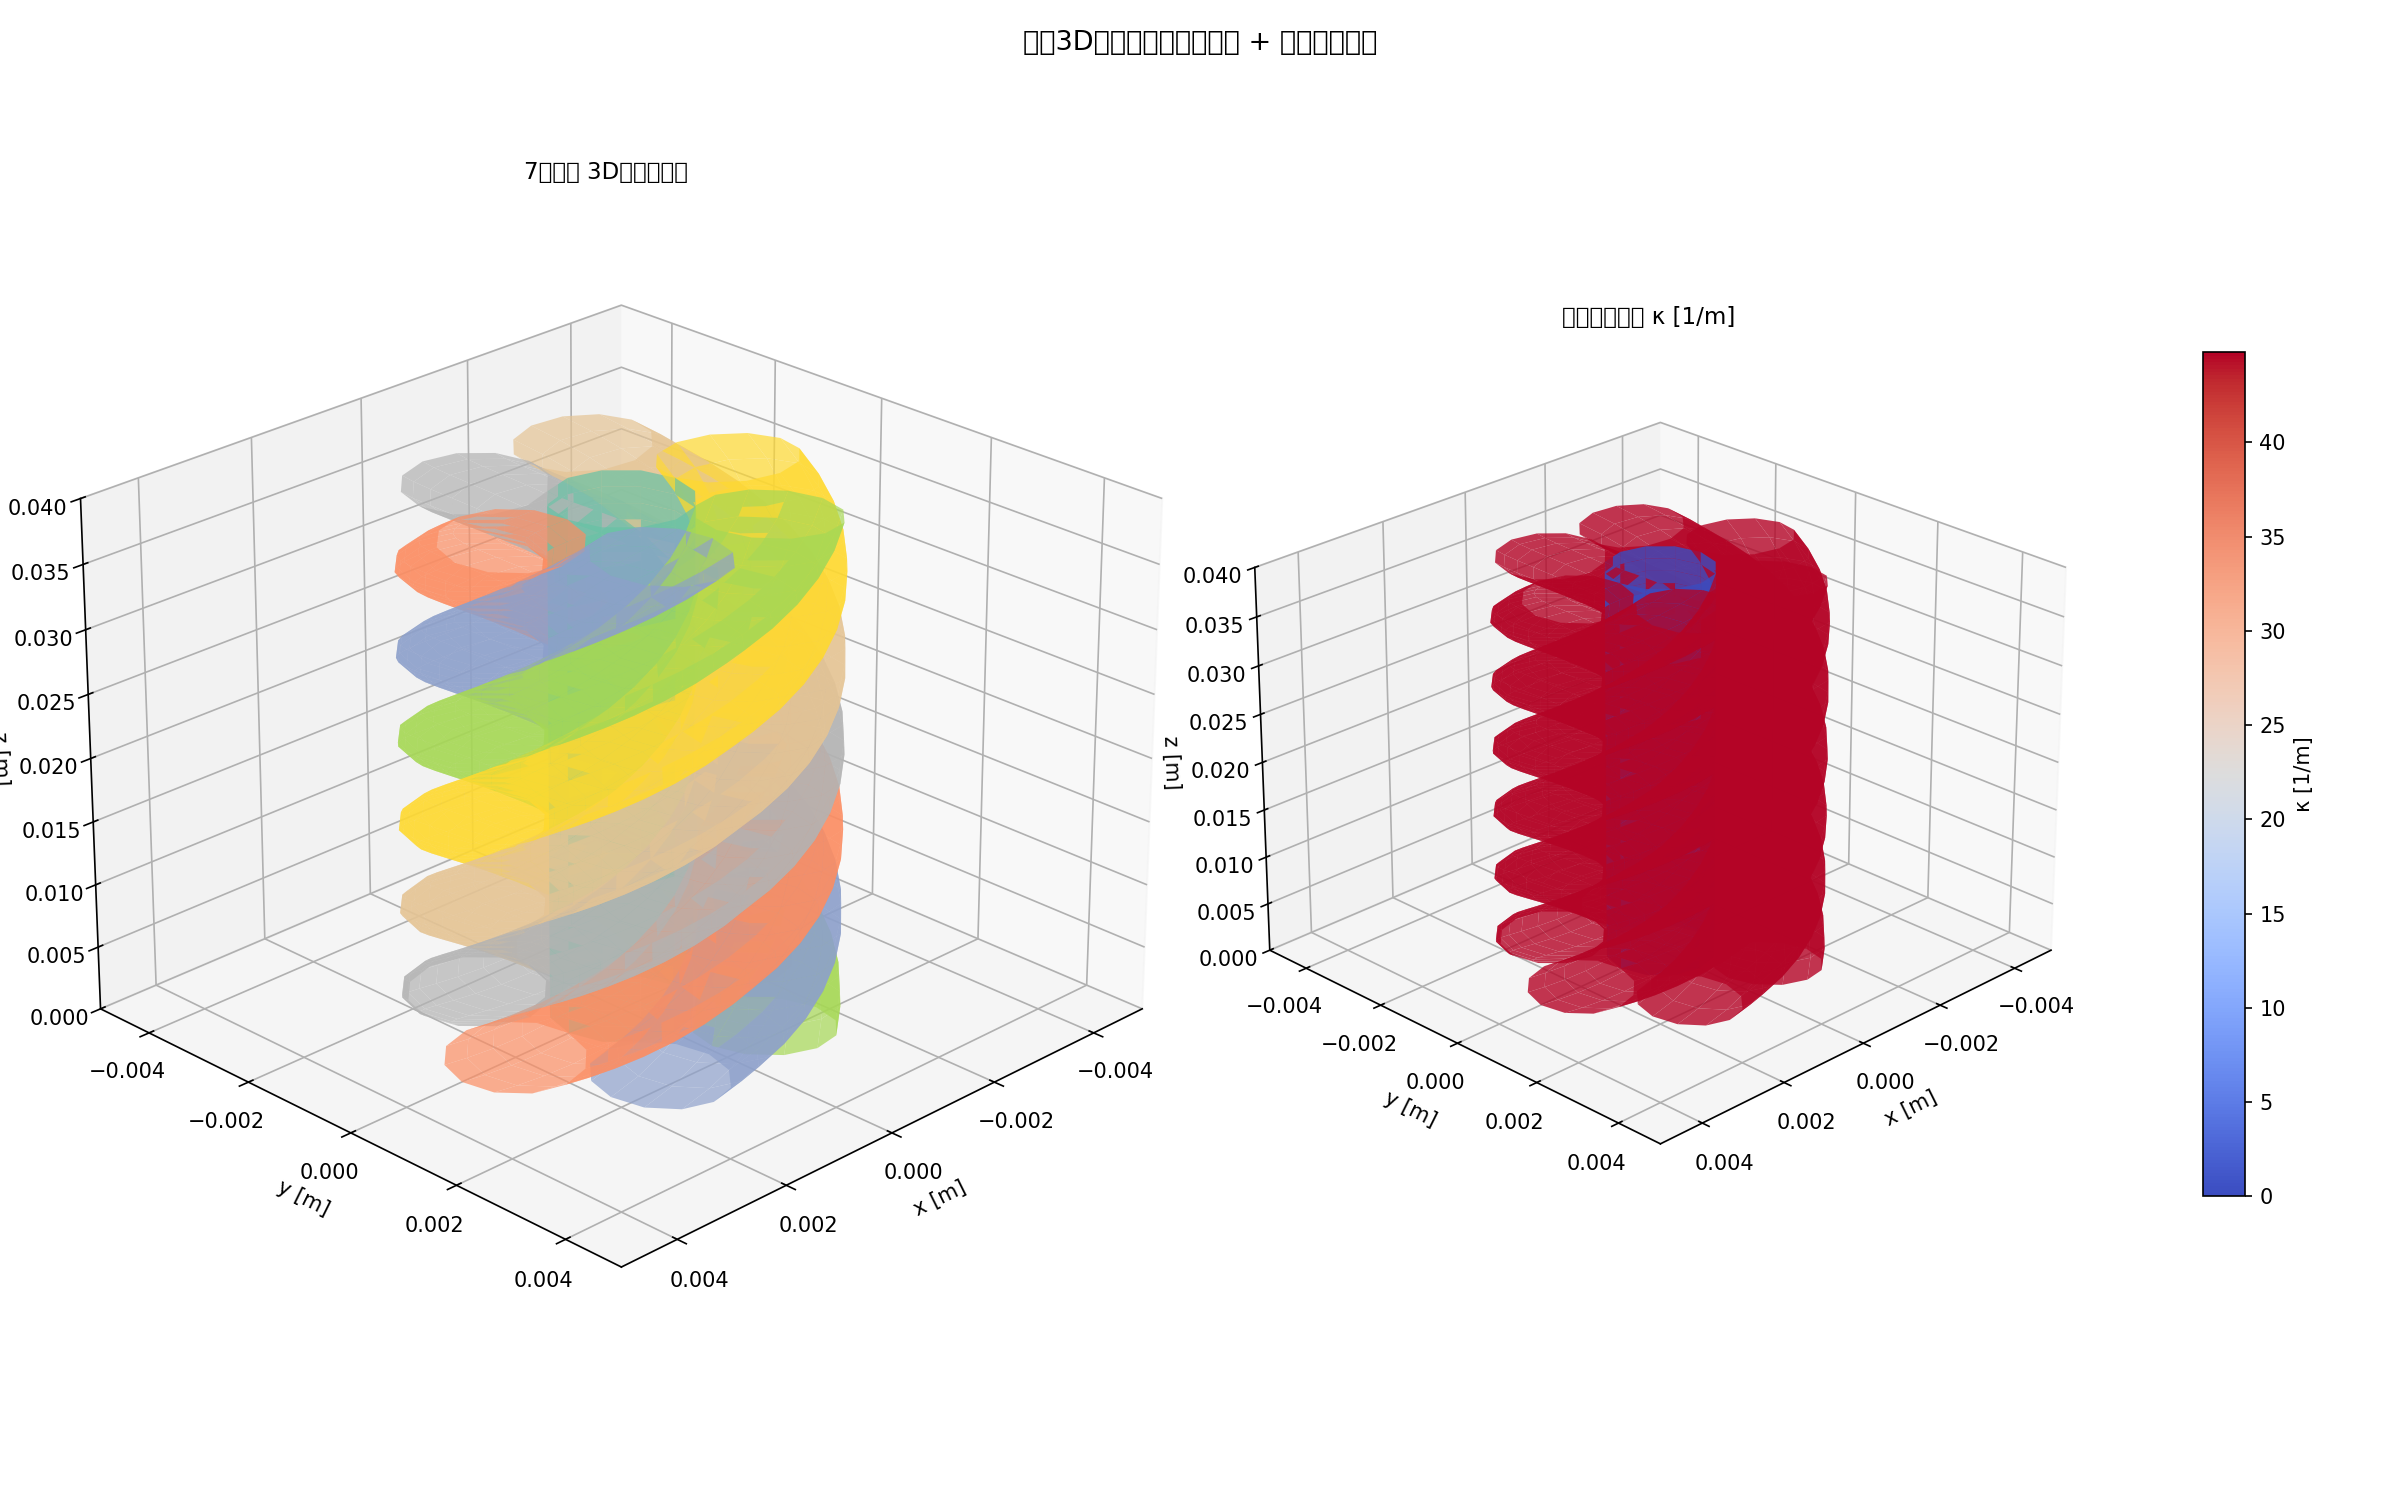
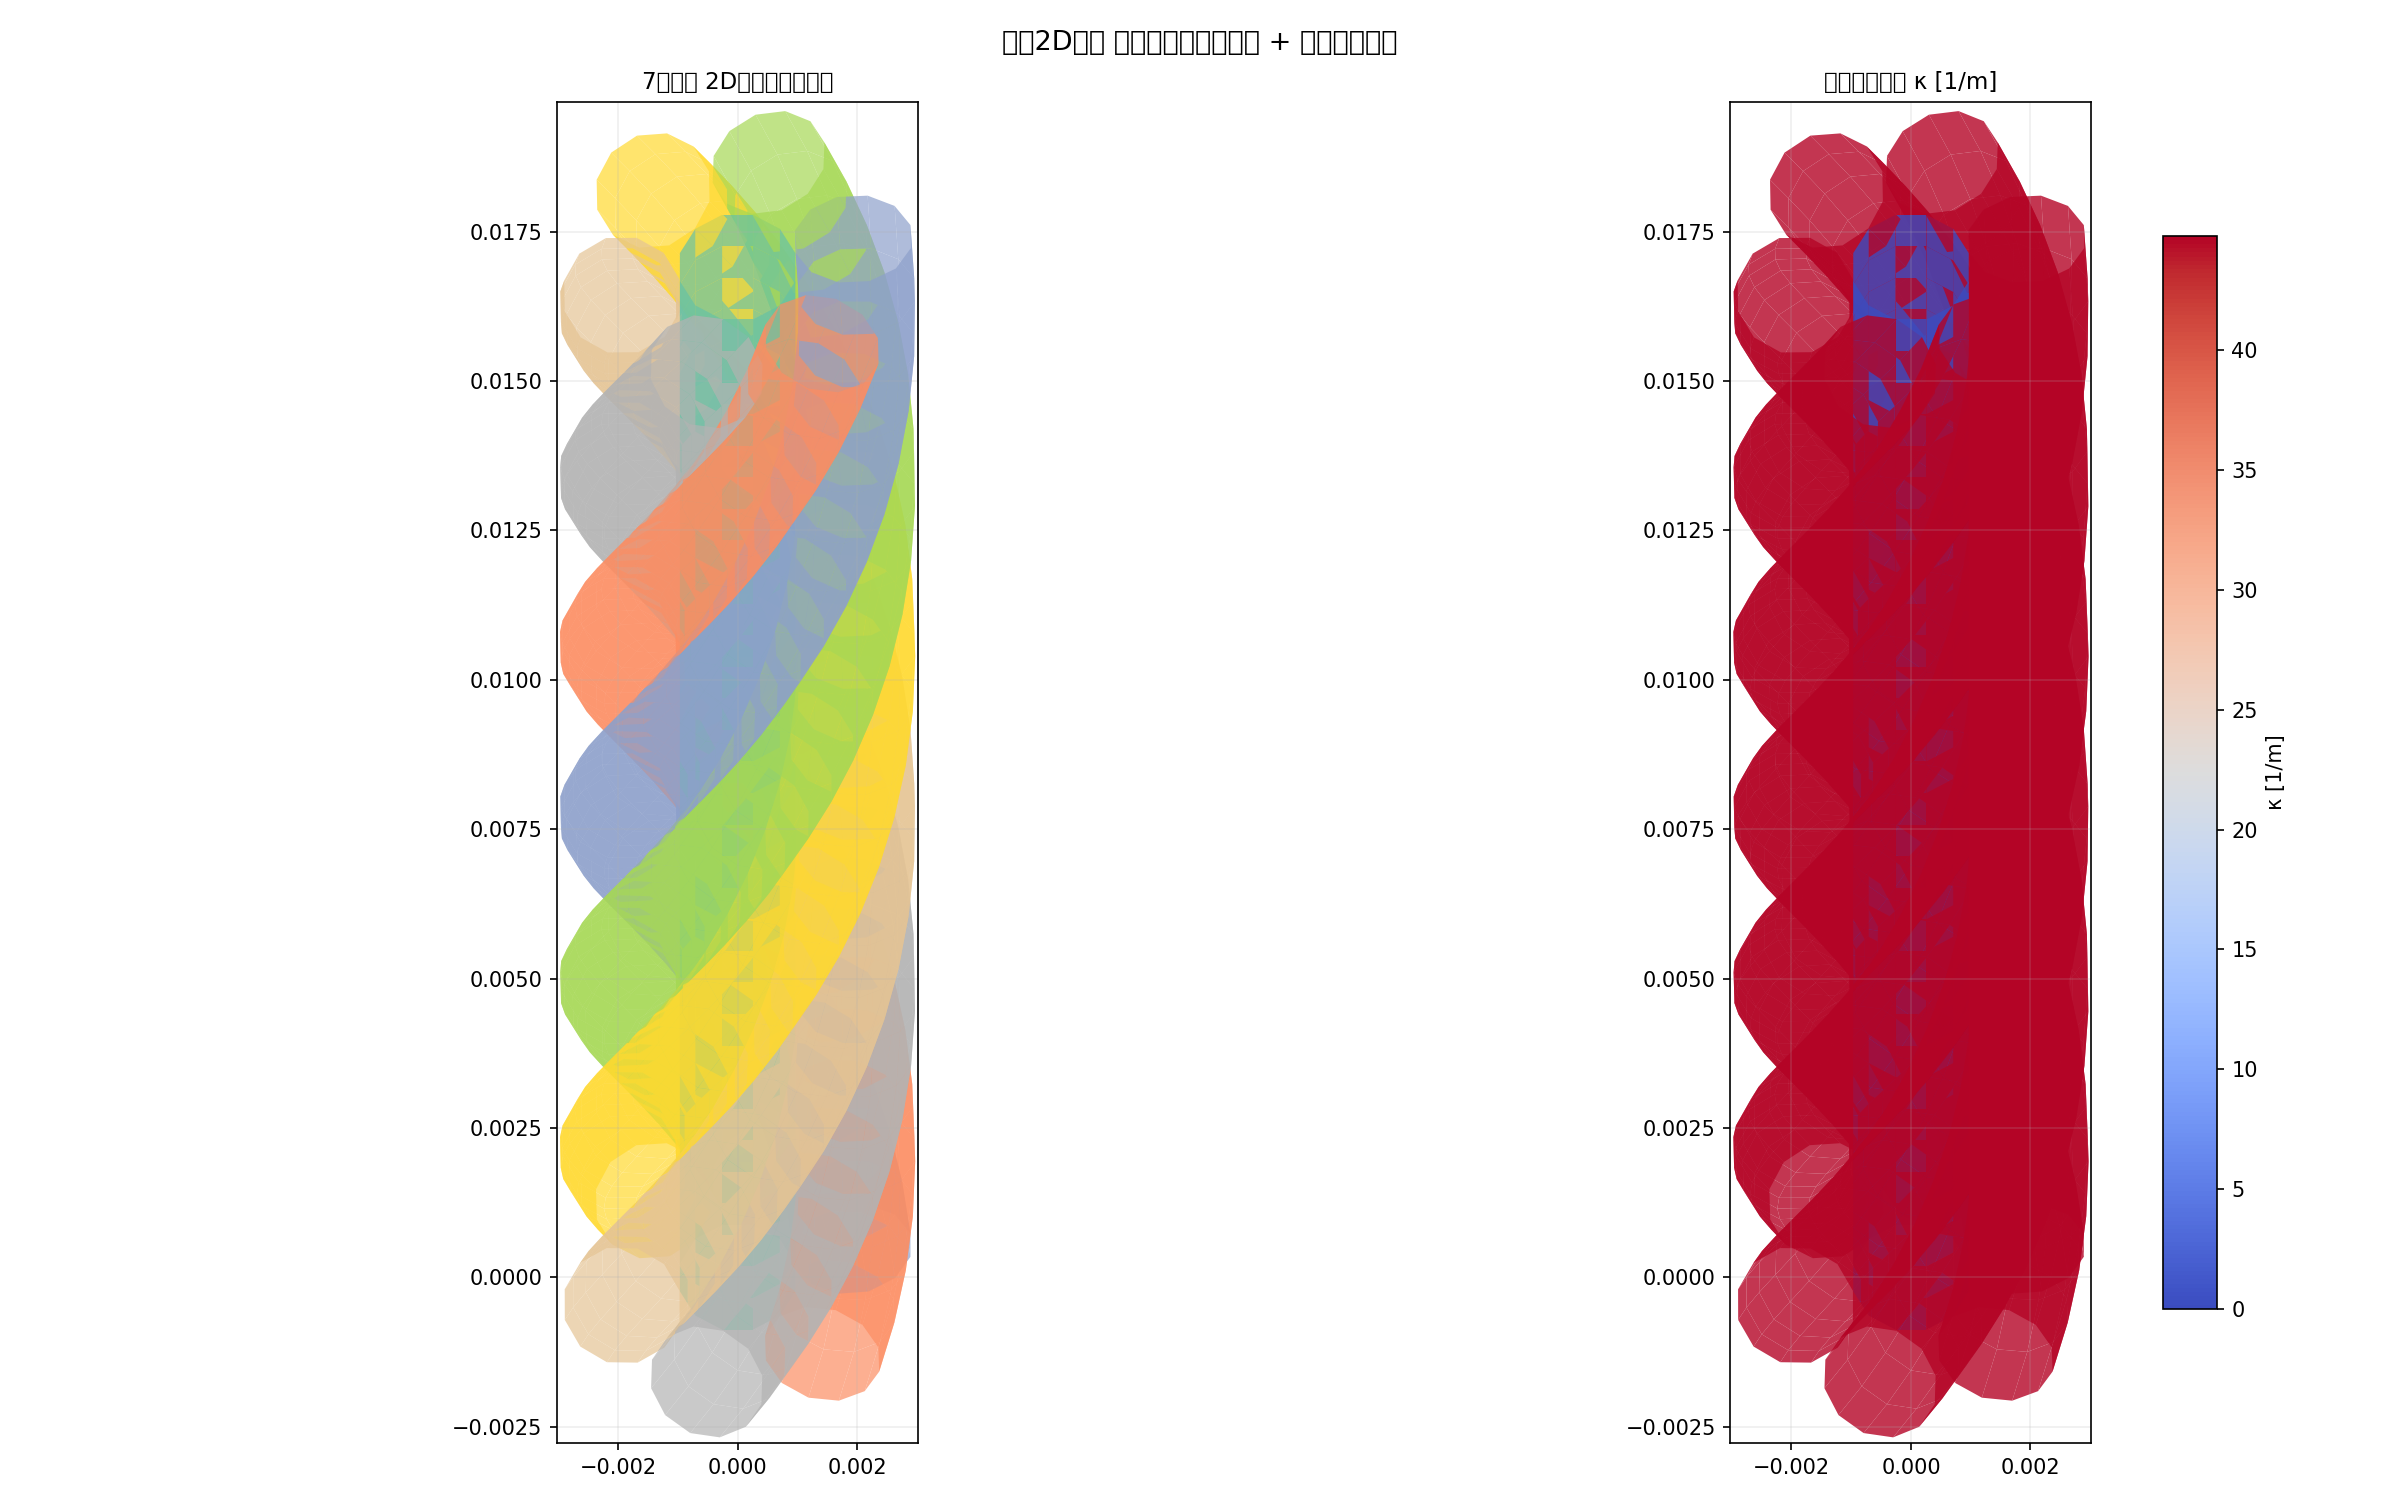
refactor: 3Dプロット2関数をmplot3d→四元数2D投影方式に完全置換
plot_twisted_wire_3d_surface と plot_beam_3d_stress_contour を
Poly3DCollection (mplot3d) から PolyCollection + 四元数2D投影に変更。
mplot3dのアスペクト比1:1:1問題を解消し、等方的な投影を実現。
status-123で実装済みの _project_3d_to_2d, _beam_surface_polys_2d を活用。
検証プロット図を再生成・保存。

https://claude.ai/code/session_01PUNEG4SFkNc4XqfDFp6QGJ

diff --git a/tests/generate_verification_plots.py b/tests/generate_verification_plots.py
@@ -3336,9 +3336,13 @@ def _beam_surface_mesh(coords, radius, n_circ=12):
 
 
 def plot_twisted_wire_3d_surface():
-    """撚線の3D表面レンダリング（パイプ形状 + 曲率コンター）."""
+    """撚線の2D投影表面レンダリング（パイプ形状 + 曲率コンター）.
+
+    mplot3dのアスペクト比問題を回避するため、四元数ベースの
+    3D→2D投影方式を使用（status-126で置換）。
+    """
     plt = _setup_matplotlib()
-    from mpl_toolkits.mplot3d.art3d import Poly3DCollection
+    from matplotlib.collections import PolyCollection
 
     from xkep_cae.mesh.twisted_wire import make_twisted_wire_mesh
 
@@ -3353,60 +3357,41 @@ def plot_twisted_wire_3d_surface():
     )
     r_wire = wire_d / 2.0
     n_circ = 12
+    elev, azim = 25.0, 45.0
 
-    fig = plt.figure(figsize=(16, 10))
+    fig, (ax1, ax2) = plt.subplots(1, 2, figsize=(16, 10))
 
-    # --- 1. 3D表面レンダリング（全体） ---
-    ax1 = fig.add_subplot(1, 2, 1, projection="3d")
+    # --- 1. 2D投影表面レンダリング（全体） ---
     colors_strand = plt.cm.Set2(np.linspace(0, 1, mesh.n_strands))
 
+    all_polys = []
+    all_depths = []
+    all_colors = []
     for si in range(mesh.n_strands):
         ns, ne = mesh.strand_node_ranges[si]
         coords = mesh.node_coords[ns:ne]
-        Xs, Ys, Zs = _beam_surface_mesh(coords, r_wire, n_circ)
+        polys, depths = _beam_surface_polys_2d(coords, r_wire, n_circ, elev, azim)
+        all_polys.extend(polys)
+        all_depths.extend(depths)
+        all_colors.extend([colors_strand[si]] * len(polys))
 
-        # Poly3DCollectionでサーフェスを描画
-        for i in range(len(coords) - 1):
-            for j in range(n_circ):
-                j_next = (j + 1) % n_circ
-                verts = [
-                    [Xs[i, j], Ys[i, j], Zs[i, j]],
-                    [Xs[i, j_next], Ys[i, j_next], Zs[i, j_next]],
-                    [Xs[i + 1, j_next], Ys[i + 1, j_next], Zs[i + 1, j_next]],
-                    [Xs[i + 1, j], Ys[i + 1, j], Zs[i + 1, j]],
-                ]
-                poly = Poly3DCollection(
-                    [verts],
-                    alpha=0.7,
-                    facecolor=colors_strand[si],
-                    edgecolor="none",
-                )
-                ax1.add_collection3d(poly)
+    # 深度ソート（奥→手前の順に描画）
+    order = np.argsort(all_depths)
+    sorted_polys = [all_polys[i] for i in order]
+    sorted_colors = [all_colors[i] for i in order]
 
-    # 軸範囲
-    all_coords = mesh.node_coords
-    margin = 3 * r_wire
-    ax1.set_xlim(all_coords[:, 0].min() - margin, all_coords[:, 0].max() + margin)
-    ax1.set_ylim(all_coords[:, 1].min() - margin, all_coords[:, 1].max() + margin)
-    ax1.set_zlim(all_coords[:, 2].min(), all_coords[:, 2].max())
-    ax1.set_xlabel("x [m]")
-    ax1.set_ylabel("y [m]")
-    ax1.set_zlabel("z [m]")
-    ax1.set_title("7本撚線 3Dパイプ表面", fontsize=11)
-    ax1.view_init(elev=25, azim=45)
+    pc = PolyCollection(sorted_polys, facecolors=sorted_colors, edgecolors="none", alpha=0.7)
+    ax1.add_collection(pc)
+    _setup_2d_projected_ax(ax1, mesh.node_coords, elev, azim)
+    ax1.set_title("7本撚線 2D投影パイプ表面", fontsize=11)
 
-    # --- 2. 曲率コンター付き3D表面（中心素線のみ） ---
-    ax2 = fig.add_subplot(1, 2, 2, projection="3d")
-
-    # 全素線の曲率をカラーマップで表示
+    # --- 2. 曲率コンター付き2D投影表面 ---
     sm = plt.cm.ScalarMappable(cmap="coolwarm")
     all_curvatures = []
 
     for si in range(mesh.n_strands):
         ns, ne = mesh.strand_node_ranges[si]
         coords = mesh.node_coords[ns:ne]
-
-        # 離散曲率: κ = |d²r/ds²| ≈ |Δt/Δs|
         curvature = np.zeros(len(coords))
         for k in range(1, len(coords) - 1):
             t_prev = coords[k] - coords[k - 1]
@@ -3426,40 +3411,39 @@ def plot_twisted_wire_3d_surface():
         kappa_max = 1.0
     sm.set_clim(0, kappa_max)
 
+    all_polys2 = []
+    all_depths2 = []
+    all_colors2 = []
     for si in range(mesh.n_strands):
         ns, ne = mesh.strand_node_ranges[si]
         coords = mesh.node_coords[ns:ne]
         curvature = all_curvatures[si]
-        Xs, Ys, Zs = _beam_surface_mesh(coords, r_wire, n_circ)
+        polys, depths = _beam_surface_polys_2d(coords, r_wire, n_circ, elev, azim)
+        n_pts = len(coords)
+        for pi, (poly, dep) in enumerate(zip(polys, depths, strict=True)):
+            # ポリゴン→要素番号から曲率を取得
+            elem_idx = pi // n_circ
+            if elem_idx < n_pts - 1:
+                kappa_avg = (curvature[elem_idx] + curvature[elem_idx + 1]) / 2.0
+            else:
+                kappa_avg = curvature[-1]
+            all_polys2.append(poly)
+            all_depths2.append(dep)
+            all_colors2.append(sm.to_rgba(kappa_avg))
 
-        for i in range(len(coords) - 1):
-            kappa_avg = (curvature[i] + curvature[i + 1]) / 2.0
-            color = sm.to_rgba(kappa_avg)
-            for j in range(n_circ):
-                j_next = (j + 1) % n_circ
-                verts = [
-                    [Xs[i, j], Ys[i, j], Zs[i, j]],
-                    [Xs[i, j_next], Ys[i, j_next], Zs[i, j_next]],
-                    [Xs[i + 1, j_next], Ys[i + 1, j_next], Zs[i + 1, j_next]],
-                    [Xs[i + 1, j], Ys[i + 1, j], Zs[i + 1, j]],
-                ]
-                poly = Poly3DCollection([verts], alpha=0.8, facecolor=color, edgecolor="none")
-                ax2.add_collection3d(poly)
+    order2 = np.argsort(all_depths2)
+    sorted_polys2 = [all_polys2[i] for i in order2]
+    sorted_colors2 = [all_colors2[i] for i in order2]
 
-    ax2.set_xlim(all_coords[:, 0].min() - margin, all_coords[:, 0].max() + margin)
-    ax2.set_ylim(all_coords[:, 1].min() - margin, all_coords[:, 1].max() + margin)
-    ax2.set_zlim(all_coords[:, 2].min(), all_coords[:, 2].max())
-    ax2.set_xlabel("x [m]")
-    ax2.set_ylabel("y [m]")
-    ax2.set_zlabel("z [m]")
+    pc2 = PolyCollection(sorted_polys2, facecolors=sorted_colors2, edgecolors="none", alpha=0.8)
+    ax2.add_collection(pc2)
+    _setup_2d_projected_ax(ax2, mesh.node_coords, elev, azim)
     ax2.set_title("曲率コンター κ [1/m]", fontsize=11)
-    ax2.view_init(elev=25, azim=45)
 
-    # カラーバー
-    cbar = fig.colorbar(sm, ax=ax2, shrink=0.6, pad=0.1)
+    cbar = fig.colorbar(sm, ax=ax2, shrink=0.8)
     cbar.set_label("κ [1/m]")
 
-    fig.suptitle("撚線3D梁表面レンダリング + 曲率コンター", fontsize=13)
+    fig.suptitle("撚線2D投影 梁表面レンダリング + 曲率コンター", fontsize=13)
     fig.tight_layout()
     fig.savefig(OUTPUT_DIR / "twisted_wire_3d_surface.png")
     plt.close(fig)
@@ -3467,9 +3451,13 @@ def plot_twisted_wire_3d_surface():
 
 
 def plot_beam_3d_stress_contour():
-    """片持ち梁の3D表面に応力コンターを描画."""
+    """片持ち梁の2D投影表面に応力コンターを描画.
+
+    mplot3dのアスペクト比問題を回避するため、四元数ベースの
+    3D→2D投影方式を使用（status-126で置換）。
+    """
     plt = _setup_matplotlib()
-    from mpl_toolkits.mplot3d.art3d import Poly3DCollection
+    from matplotlib.collections import PolyCollection
 
     from xkep_cae.elements.beam_timo3d import timo_beam3d_ke_global
     from xkep_cae.sections.beam import BeamSection
@@ -3520,58 +3508,52 @@ def plot_beam_3d_stress_contour():
     for i in range(n_nodes):
         z_pos = coords_all[i, 2]
         M = P * (L - z_pos)
-        sigma_nodes[i] = M * r / section.Iy  # 最大曲げ応力
+        sigma_nodes[i] = M * r / section.Iy
 
-    # 3Dパイプ表面生成
+    # 2D投影表面生成
     n_circ = 16
-    Xs, Ys, Zs = _beam_surface_mesh(deformed, r, n_circ)
-
-    fig = plt.figure(figsize=(14, 8))
-    ax = fig.add_subplot(111, projection="3d")
+    elev, azim = 20.0, -60.0
 
     sigma_max = sigma_nodes.max()
     if sigma_max < 1e-6:
         sigma_max = 1.0
     sm = plt.cm.ScalarMappable(cmap="jet", norm=plt.Normalize(0, sigma_max / 1e6))
 
-    for i in range(n_nodes - 1):
-        sigma_avg = (sigma_nodes[i] + sigma_nodes[i + 1]) / 2.0
-        color = sm.to_rgba(sigma_avg / 1e6)
-        for j in range(n_circ):
-            j_next = (j + 1) % n_circ
-            verts = [
-                [Xs[i, j], Ys[i, j], Zs[i, j]],
-                [Xs[i, j_next], Ys[i, j_next], Zs[i, j_next]],
-                [Xs[i + 1, j_next], Ys[i + 1, j_next], Zs[i + 1, j_next]],
-                [Xs[i + 1, j], Ys[i + 1, j], Zs[i + 1, j]],
-            ]
-            poly = Poly3DCollection([verts], alpha=0.85, facecolor=color, edgecolor="none")
-            ax.add_collection3d(poly)
+    # 変形後のパイプ表面2Dポリゴン
+    polys_def, depths_def = _beam_surface_polys_2d(deformed, r, n_circ, elev, azim)
+
+    # 各ポリゴンの応力色
+    colors_stress = []
+    for pi in range(len(polys_def)):
+        elem_idx = pi // n_circ
+        if elem_idx < n_nodes - 1:
+            sigma_avg = (sigma_nodes[elem_idx] + sigma_nodes[elem_idx + 1]) / 2.0
+        else:
+            sigma_avg = sigma_nodes[-1]
+        colors_stress.append(sm.to_rgba(sigma_avg / 1e6))
+
+    # 深度ソート
+    order = np.argsort(depths_def)
+    sorted_polys = [polys_def[i] for i in order]
+    sorted_colors = [colors_stress[i] for i in order]
+
+    fig, ax = plt.subplots(1, 1, figsize=(14, 8))
+
+    pc = PolyCollection(sorted_polys, facecolors=sorted_colors, edgecolors="none", alpha=0.85)
+    ax.add_collection(pc)
 
     # 未変形形状を線で表示
-    ax.plot(
-        coords_all[:, 0],
-        coords_all[:, 1],
-        coords_all[:, 2],
-        "k--",
-        linewidth=1,
-        alpha=0.5,
-        label="未変形",
-    )
+    undef_2d, _ = _project_3d_to_2d(coords_all, elev, azim)
+    ax.plot(undef_2d[:, 0], undef_2d[:, 1], "k--", linewidth=1, alpha=0.5, label="未変形")
 
-    margin_3d = 2 * r
-    y_range = max(abs(deformed[:, 1].max()), abs(deformed[:, 1].min())) + margin_3d
-    ax.set_xlim(-y_range, y_range)
-    ax.set_ylim(-y_range, y_range)
-    ax.set_zlim(0, L)
-    ax.set_xlabel("x [m]")
-    ax.set_ylabel("y [m]")
-    ax.set_zlabel("z [m]")
-    ax.set_title(f"片持ち梁3D応力コンター (P={P / 1000:.0f}kN, d={d * 1e3:.0f}mm)", fontsize=12)
-    ax.view_init(elev=20, azim=-60)
+    _setup_2d_projected_ax(ax, deformed, elev, azim)
+    ax.set_title(
+        f"片持ち梁2D投影応力コンター (P={P / 1000:.0f}kN, d={d * 1e3:.0f}mm)",
+        fontsize=12,
+    )
     ax.legend(fontsize=9)
 
-    cbar = fig.colorbar(sm, ax=ax, shrink=0.6, pad=0.1)
+    cbar = fig.colorbar(sm, ax=ax, shrink=0.8)
     cbar.set_label("σ_bending [MPa]")
 
     fig.tight_layout()
